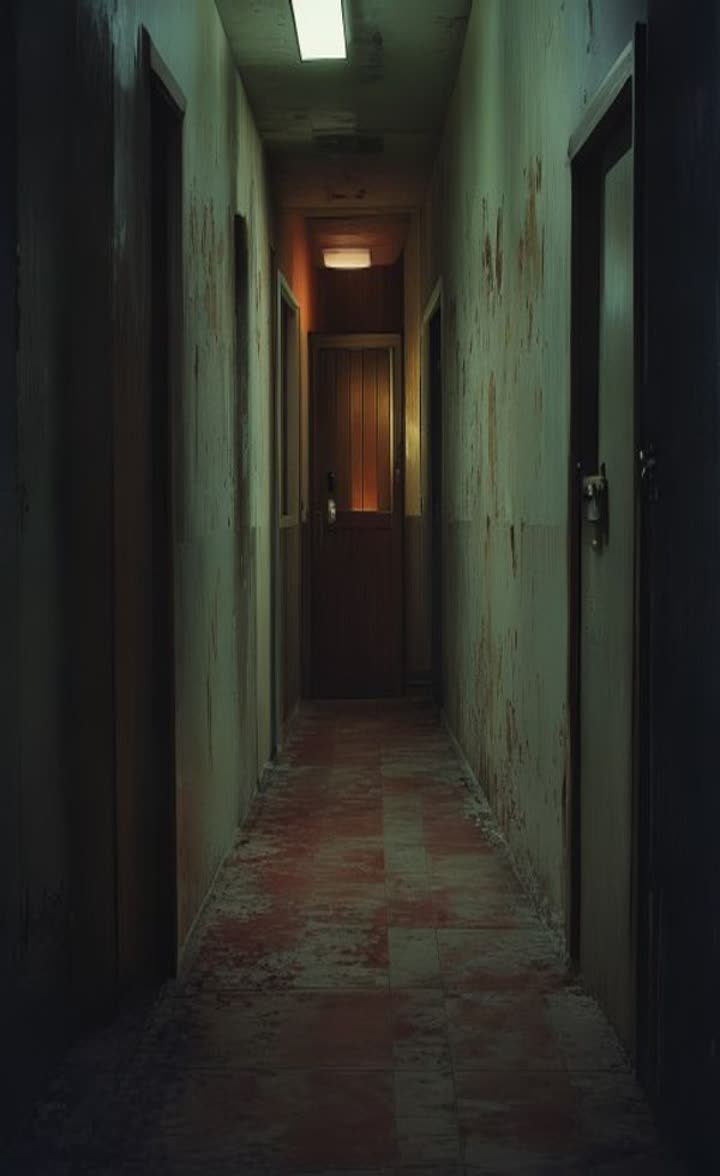
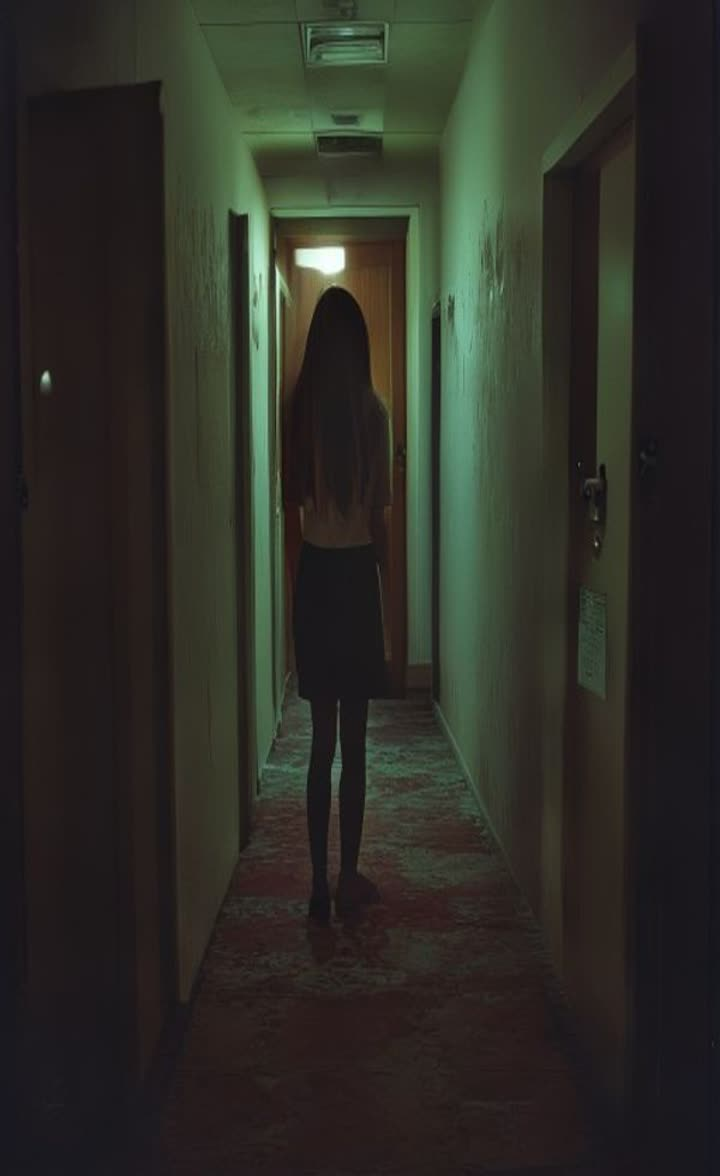
Люди в кадре на семи обложках, новый пароль
Постеру драмы нужна фигура, поэтому на семи из тринадцати обложек
теперь человек: прораб на стройке, врач в приёмном покое, механик
в боксе, учительница у окон, дежурная по этажу, девушка в коридоре
общежития, пара за кухонным столом.

Дистанция везде общая, не портретная. Первый заход был средним
планом — лицо на стройке расползлось, глаза и рот поплыли. На общем
плане лица выходят чисто, поэтому в промптах закреплены full body,
wide shot и seen from a distance. Причина записана в скрипте, чтобы
следующий раз не наступить туда же.

Пароль сменён на 654321. Каталог перешифрован, старый пароль больше
не подходит — проверено.

Changed region(s): [[0.1222, 0.0, 0.8861, 0.8878], [0.1528, 0.1224, 0.1833, 0.2143], [0.0611, 0.3061, 0.0917, 0.3367]]

diff --git a/README.md b/README.md
@@ -9,7 +9,7 @@
 
 ## Пароль
 
-Сайт открывается парольным экраном. Пароль по умолчанию — **`sujet2026`**.
+Сайт открывается парольным экраном. Пароль — **`654321`**.
 
 Он не сверяется со строкой в коде: весь каталог (названия, синопсисы, все сорок
 хуков, структура) лежит в репозитории зашифрованным — `data/content.enc`,
@@ -243,9 +243,9 @@ scripts/find_vertical.py  ищет вертикальные сериалы на 
 После свежего клонирования, чтобы править контент:
 
 ```bash
-node scripts/unpack.mjs sujet2026     # получить data/content.json
+node scripts/unpack.mjs 654321        # получить data/content.json
 # ...правки...
-node scripts/pack.mjs sujet2026       # обратно в data/content.enc
+node scripts/pack.mjs 654321          # обратно в data/content.enc
 ```
 
 **Всё содержимое — в `content.json`,** плеер рендерится из него. Количество
